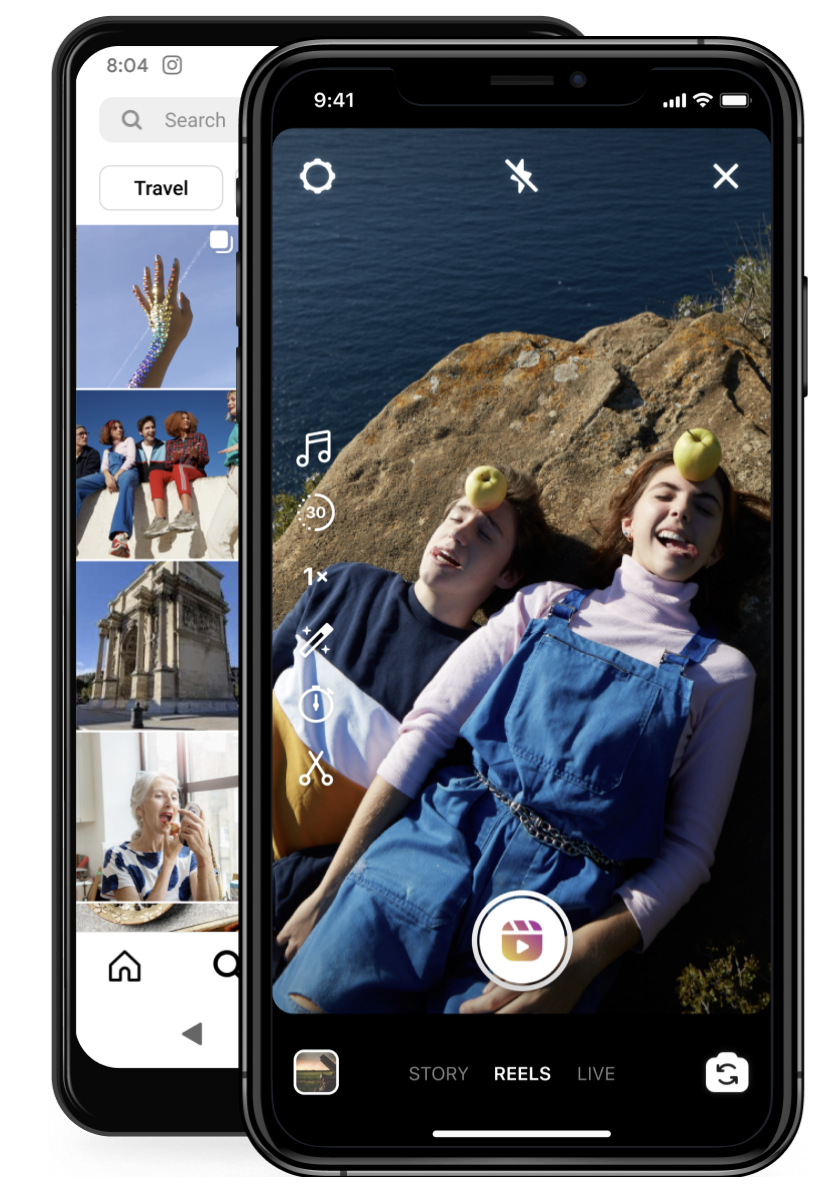
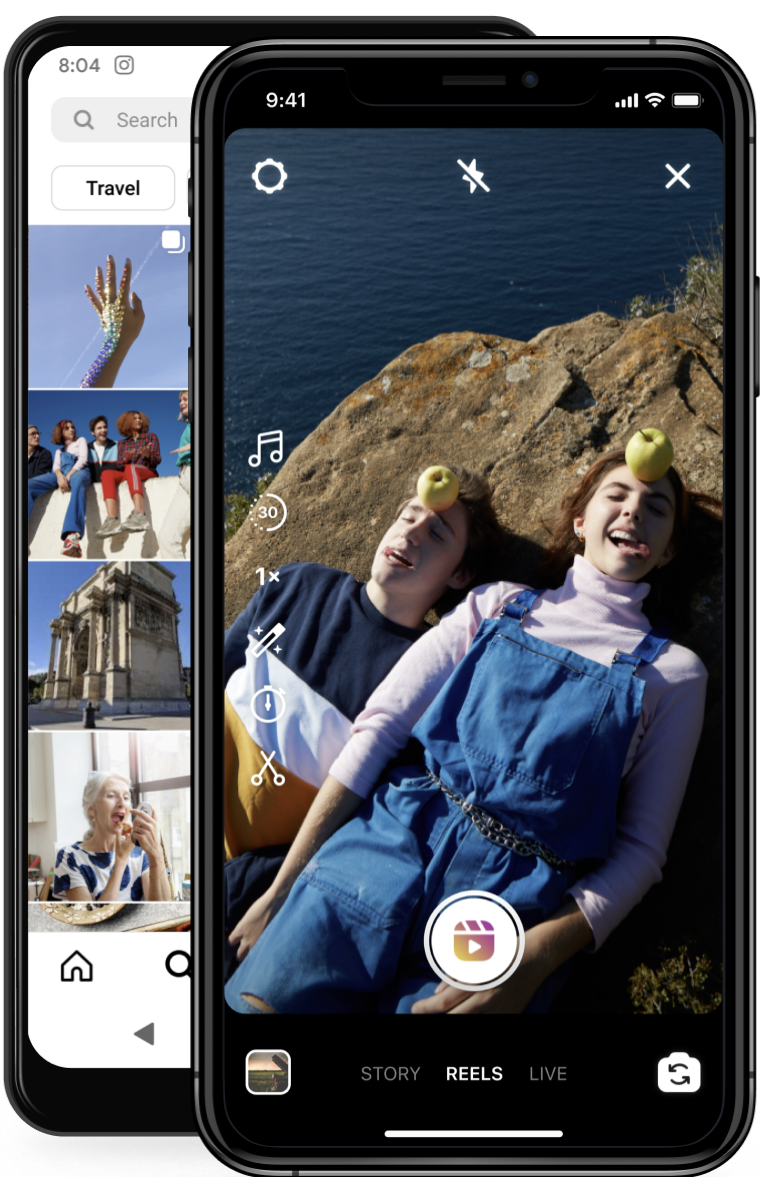
login/sigup done

diff --git a/src/pages/signin.jsx b/src/pages/signin.jsx
@@ -51,6 +51,7 @@ const FormContainer = styled(Box)({
   display: 'flex',
   flexDirection: 'column',
   alignItems: 'center',
+  marginLeft: 0
 });
 
 const PrimaryBox = styled(Box)({
@@ -138,7 +139,7 @@ function SignIn() {
             <img
               src={Bg}
               alt="iPhone"
-              style={{ height: '100%', width: 'auto', objectFit: 'cover' }}
+              style={{ height: '100%', width: 'auto', objectFit: 'cover',marginRight:0 }}
             />
           </Box>
           
